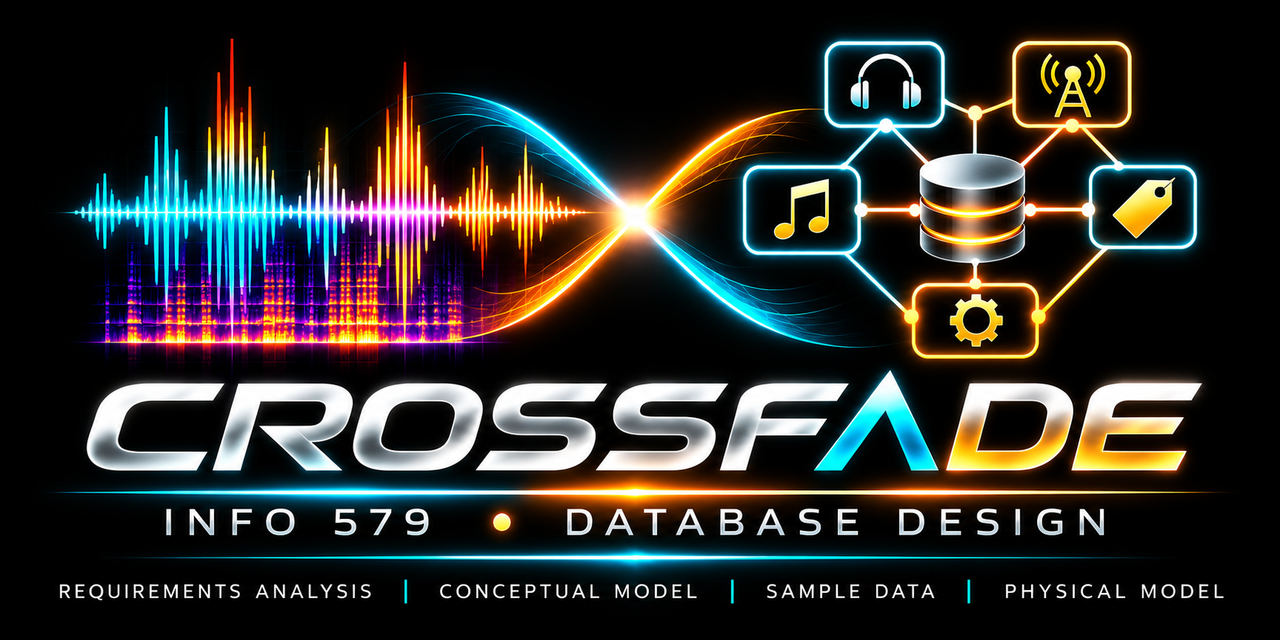
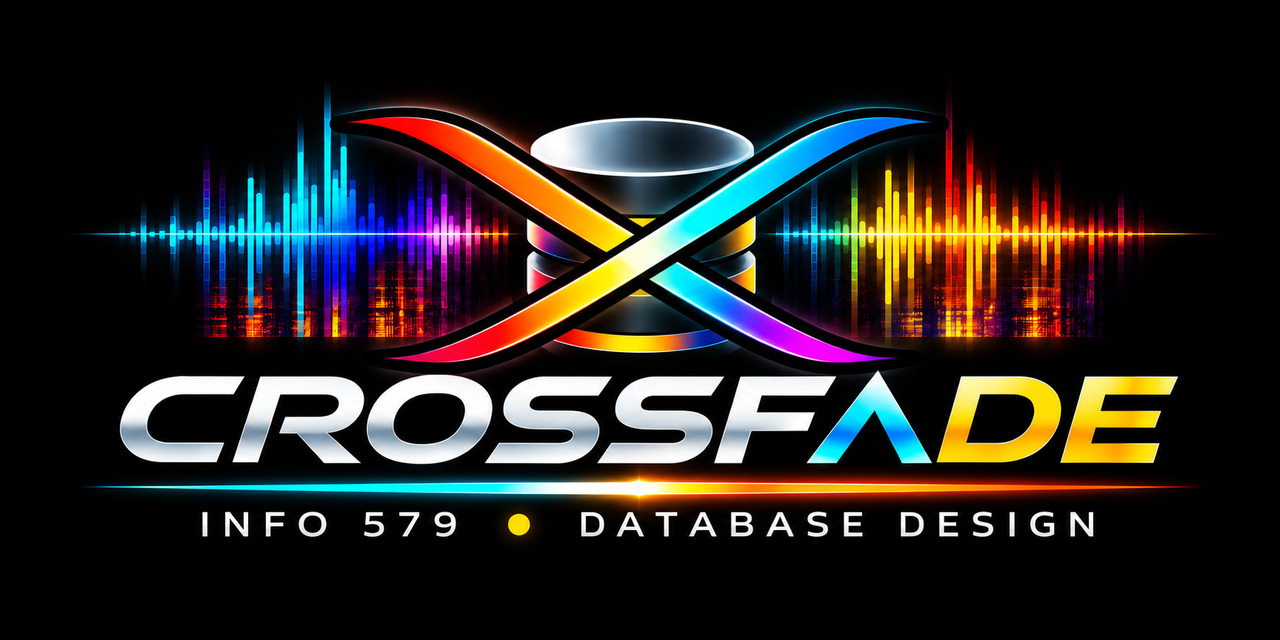
Added new social media tag

diff --git a/project1/index.html b/project1/index.html
@@ -10,16 +10,16 @@
 <meta property="og:title" content="CROSSFADE | Project 1: Database Design">
 <meta property="og:description" content="CROSSFADE: a between-genres streaming service for independent artists. Relational database design for INFO 579, from requirements analysis to physical model.">
 <meta property="og:url" content="https://n-herling-mk1.github.io/INFO_579_Fa26_Proj1_CROSSFADE/project1/">
-<meta property="og:image" content="https://n-herling-mk1.github.io/INFO_579_Fa26_Proj1_CROSSFADE/assets/images/og_crossfade_card.jpg">
+<meta property="og:image" content="https://n-herling-mk1.github.io/INFO_579_Fa26_Proj1_CROSSFADE/assets/images/og_crossfade_x.jpg">
 <meta property="og:image:width" content="1200">
 <meta property="og:image:height" content="630">
 <meta property="og:image:type" content="image/jpeg">
-<meta property="og:image:alt" content="An audio waveform crossfading into a glowing database linked to music, listener, station, tag and scoring icons, above the CROSSFADE wordmark; INFO 579">
+<meta property="og:image:alt" content="Two light bands, warm and cool, cross in an X over a database cylinder between two audio waveforms, above the CROSSFADE wordmark; INFO 579, Database Design">
 <meta name="twitter:card" content="summary_large_image">
 <meta name="twitter:title" content="CROSSFADE | Project 1: Database Design">
 <meta name="twitter:description" content="CROSSFADE: a between-genres streaming service for independent artists. Relational database design for INFO 579, from requirements analysis to physical model.">
-<meta name="twitter:image:alt" content="An audio waveform crossfading into a glowing database linked to music, listener, station, tag and scoring icons, above the CROSSFADE wordmark; INFO 579">
-<meta name="twitter:image" content="https://n-herling-mk1.github.io/INFO_579_Fa26_Proj1_CROSSFADE/assets/images/og_crossfade_card.jpg">
+<meta name="twitter:image:alt" content="Two light bands, warm and cool, cross in an X over a database cylinder between two audio waveforms, above the CROSSFADE wordmark; INFO 579, Database Design">
+<meta name="twitter:image" content="https://n-herling-mk1.github.io/INFO_579_Fa26_Proj1_CROSSFADE/assets/images/og_crossfade_x.jpg">
 <link rel="icon" href="../assets/images/favicon.ico" sizes="any">
 <link rel="icon" type="image/png" sizes="32x32" href="../assets/images/favicon-32.png">
 <link rel="icon" type="image/png" sizes="192x192" href="../assets/images/icon-192.png">

diff --git a/index.html b/index.html
@@ -10,16 +10,16 @@
 <meta property="og:title" content="CROSSFADE | INFO 579 Group 1">
 <meta property="og:description" content="CROSSFADE, a between-genres streaming service for independent artists, built three ways for INFO 579: database design, an SQL database and a NoSQL database.">
 <meta property="og:url" content="https://n-herling-mk1.github.io/INFO_579_Fa26_Proj1_CROSSFADE/">
-<meta property="og:image" content="https://n-herling-mk1.github.io/INFO_579_Fa26_Proj1_CROSSFADE/assets/images/og_crossfade_card.jpg">
+<meta property="og:image" content="https://n-herling-mk1.github.io/INFO_579_Fa26_Proj1_CROSSFADE/assets/images/og_crossfade_x.jpg">
 <meta property="og:image:width" content="1200">
 <meta property="og:image:height" content="630">
 <meta property="og:image:type" content="image/jpeg">
-<meta property="og:image:alt" content="An audio waveform crossfading into a glowing database linked to music, listener, station, tag and scoring icons, above the CROSSFADE wordmark; INFO 579">
+<meta property="og:image:alt" content="Two light bands, warm and cool, cross in an X over a database cylinder between two audio waveforms, above the CROSSFADE wordmark; INFO 579, Database Design">
 <meta name="twitter:card" content="summary_large_image">
 <meta name="twitter:title" content="CROSSFADE | INFO 579 Group 1">
 <meta name="twitter:description" content="CROSSFADE, a between-genres streaming service for independent artists, built three ways for INFO 579: database design, an SQL database and a NoSQL database.">
-<meta name="twitter:image:alt" content="An audio waveform crossfading into a glowing database linked to music, listener, station, tag and scoring icons, above the CROSSFADE wordmark; INFO 579">
-<meta name="twitter:image" content="https://n-herling-mk1.github.io/INFO_579_Fa26_Proj1_CROSSFADE/assets/images/og_crossfade_card.jpg">
+<meta name="twitter:image:alt" content="Two light bands, warm and cool, cross in an X over a database cylinder between two audio waveforms, above the CROSSFADE wordmark; INFO 579, Database Design">
+<meta name="twitter:image" content="https://n-herling-mk1.github.io/INFO_579_Fa26_Proj1_CROSSFADE/assets/images/og_crossfade_x.jpg">
 <link rel="icon" href="assets/images/favicon.ico" sizes="any">
 <link rel="icon" type="image/png" sizes="32x32" href="assets/images/favicon-32.png">
 <link rel="icon" type="image/png" sizes="192x192" href="assets/images/icon-192.png">

diff --git a/project2/index.html b/project2/index.html
@@ -10,16 +10,16 @@
 <meta property="og:title" content="CROSSFADE | Project 2: SQL Database">
 <meta property="og:description" content="CROSSFADE, INFO 579 Project 2: SQL Database. The four .sql deliverables.">
 <meta property="og:url" content="https://n-herling-mk1.github.io/INFO_579_Fa26_Proj1_CROSSFADE/project2/">
-<meta property="og:image" content="https://n-herling-mk1.github.io/INFO_579_Fa26_Proj1_CROSSFADE/assets/images/og_crossfade_card.jpg">
+<meta property="og:image" content="https://n-herling-mk1.github.io/INFO_579_Fa26_Proj1_CROSSFADE/assets/images/og_crossfade_x.jpg">
 <meta property="og:image:width" content="1200">
 <meta property="og:image:height" content="630">
 <meta property="og:image:type" content="image/jpeg">
-<meta property="og:image:alt" content="An audio waveform crossfading into a glowing database linked to music, listener, station, tag and scoring icons, above the CROSSFADE wordmark; INFO 579">
+<meta property="og:image:alt" content="Two light bands, warm and cool, cross in an X over a database cylinder between two audio waveforms, above the CROSSFADE wordmark; INFO 579, Database Design">
 <meta name="twitter:card" content="summary_large_image">
 <meta name="twitter:title" content="CROSSFADE | Project 2: SQL Database">
 <meta name="twitter:description" content="CROSSFADE, INFO 579 Project 2: SQL Database. The four .sql deliverables.">
-<meta name="twitter:image:alt" content="An audio waveform crossfading into a glowing database linked to music, listener, station, tag and scoring icons, above the CROSSFADE wordmark; INFO 579">
-<meta name="twitter:image" content="https://n-herling-mk1.github.io/INFO_579_Fa26_Proj1_CROSSFADE/assets/images/og_crossfade_card.jpg">
+<meta name="twitter:image:alt" content="Two light bands, warm and cool, cross in an X over a database cylinder between two audio waveforms, above the CROSSFADE wordmark; INFO 579, Database Design">
+<meta name="twitter:image" content="https://n-herling-mk1.github.io/INFO_579_Fa26_Proj1_CROSSFADE/assets/images/og_crossfade_x.jpg">
 <link rel="icon" href="../assets/images/favicon.ico" sizes="any">
 <link rel="icon" type="image/png" sizes="32x32" href="../assets/images/favicon-32.png">
 <link rel="icon" type="image/png" sizes="192x192" href="../assets/images/icon-192.png">

diff --git a/design/index.html b/design/index.html
@@ -10,16 +10,16 @@
 <meta property="og:title" content="CROSSFADE | Top-level design">
 <meta property="og:description" content="CROSSFADE top-level design shared by INFO 579 Projects 1 to 3.">
 <meta property="og:url" content="https://n-herling-mk1.github.io/INFO_579_Fa26_Proj1_CROSSFADE/design/">
-<meta property="og:image" content="https://n-herling-mk1.github.io/INFO_579_Fa26_Proj1_CROSSFADE/assets/images/og_crossfade_card.jpg">
+<meta property="og:image" content="https://n-herling-mk1.github.io/INFO_579_Fa26_Proj1_CROSSFADE/assets/images/og_crossfade_x.jpg">
 <meta property="og:image:width" content="1200">
 <meta property="og:image:height" content="630">
 <meta property="og:image:type" content="image/jpeg">
-<meta property="og:image:alt" content="An audio waveform crossfading into a glowing database linked to music, listener, station, tag and scoring icons, above the CROSSFADE wordmark; INFO 579">
+<meta property="og:image:alt" content="Two light bands, warm and cool, cross in an X over a database cylinder between two audio waveforms, above the CROSSFADE wordmark; INFO 579, Database Design">
 <meta name="twitter:card" content="summary_large_image">
 <meta name="twitter:title" content="CROSSFADE | Top-level design">
 <meta name="twitter:description" content="CROSSFADE top-level design shared by INFO 579 Projects 1 to 3.">
-<meta name="twitter:image:alt" content="An audio waveform crossfading into a glowing database linked to music, listener, station, tag and scoring icons, above the CROSSFADE wordmark; INFO 579">
-<meta name="twitter:image" content="https://n-herling-mk1.github.io/INFO_579_Fa26_Proj1_CROSSFADE/assets/images/og_crossfade_card.jpg">
+<meta name="twitter:image:alt" content="Two light bands, warm and cool, cross in an X over a database cylinder between two audio waveforms, above the CROSSFADE wordmark; INFO 579, Database Design">
+<meta name="twitter:image" content="https://n-herling-mk1.github.io/INFO_579_Fa26_Proj1_CROSSFADE/assets/images/og_crossfade_x.jpg">
 <link rel="icon" href="../assets/images/favicon.ico" sizes="any">
 <link rel="icon" type="image/png" sizes="32x32" href="../assets/images/favicon-32.png">
 <link rel="icon" type="image/png" sizes="192x192" href="../assets/images/icon-192.png">

diff --git a/project3/index.html b/project3/index.html
@@ -10,16 +10,16 @@
 <meta property="og:title" content="CROSSFADE | Project 3: NoSQL Database">
 <meta property="og:description" content="CROSSFADE, INFO 579 Project 3: NoSQL Database.">
 <meta property="og:url" content="https://n-herling-mk1.github.io/INFO_579_Fa26_Proj1_CROSSFADE/project3/">
-<meta property="og:image" content="https://n-herling-mk1.github.io/INFO_579_Fa26_Proj1_CROSSFADE/assets/images/og_crossfade_card.jpg">
+<meta property="og:image" content="https://n-herling-mk1.github.io/INFO_579_Fa26_Proj1_CROSSFADE/assets/images/og_crossfade_x.jpg">
 <meta property="og:image:width" content="1200">
 <meta property="og:image:height" content="630">
 <meta property="og:image:type" content="image/jpeg">
-<meta property="og:image:alt" content="An audio waveform crossfading into a glowing database linked to music, listener, station, tag and scoring icons, above the CROSSFADE wordmark; INFO 579">
+<meta property="og:image:alt" content="Two light bands, warm and cool, cross in an X over a database cylinder between two audio waveforms, above the CROSSFADE wordmark; INFO 579, Database Design">
 <meta name="twitter:card" content="summary_large_image">
 <meta name="twitter:title" content="CROSSFADE | Project 3: NoSQL Database">
 <meta name="twitter:description" content="CROSSFADE, INFO 579 Project 3: NoSQL Database.">
-<meta name="twitter:image:alt" content="An audio waveform crossfading into a glowing database linked to music, listener, station, tag and scoring icons, above the CROSSFADE wordmark; INFO 579">
-<meta name="twitter:image" content="https://n-herling-mk1.github.io/INFO_579_Fa26_Proj1_CROSSFADE/assets/images/og_crossfade_card.jpg">
+<meta name="twitter:image:alt" content="Two light bands, warm and cool, cross in an X over a database cylinder between two audio waveforms, above the CROSSFADE wordmark; INFO 579, Database Design">
+<meta name="twitter:image" content="https://n-herling-mk1.github.io/INFO_579_Fa26_Proj1_CROSSFADE/assets/images/og_crossfade_x.jpg">
 <link rel="icon" href="../assets/images/favicon.ico" sizes="any">
 <link rel="icon" type="image/png" sizes="32x32" href="../assets/images/favicon-32.png">
 <link rel="icon" type="image/png" sizes="192x192" href="../assets/images/icon-192.png">

diff --git a/README.md b/README.md
@@ -39,7 +39,7 @@ add one line to `SECTIONS` in the script at the bottom of `index.html`.
 index.html       the site shell (top bar, rail, iframe, router)
 home/            front-page panels: overview, Project 1 package, Project 1 data (bulk / per table), Project 2 brief
 assets/          site.css (panels), shell.css (index.html chrome), splash.css (home/overview.html), panel.js,
-                 logo, favicons, social card (og_crossfade_card.jpg), CROSSFADE artwork
+                 logo, favicons, social card (og_crossfade_x.jpg), CROSSFADE artwork
 tools/           stamp_assets.py: tags every link to site.css / shell.css / splash.css / panel.js with a content hash
                  export_p1_data.py: data.xlsx -> project1/data_export/ (data.csv + one CSV per table + zip)
 assets/vendor/   jszip.min.js (JSZip 3.10.1, MIT): builds the Project 1 submission zip in the browser
@@ -87,4 +87,4 @@ Run `python tools/stamp_assets.py`. It tags each page's links as `site.css?v=<ha
 
 ## Social preview
 
-`assets/images/og_crossfade_card.jpg` (1200 x 630, the size Facebook, LinkedIn, X, Slack and Discord crop to) is the link card. Every top-level page carries Open Graph and X (Twitter) tags pointing at it. GitHub's own repo card is set separately: Settings → General → Social preview → Upload an image, with `assets/images/github_social_preview.png` (1280 x 640, GitHub's size).
+`assets/images/og_crossfade_x.jpg` (1200 x 630, the size Facebook, LinkedIn, X, Slack and Discord crop to) is the link card. Every top-level page carries Open Graph and X (Twitter) tags pointing at it. GitHub's own repo card is set separately: Settings → General → Social preview → Upload an image, with `assets/images/github_social_preview.png` (1280 x 640, GitHub's size).
